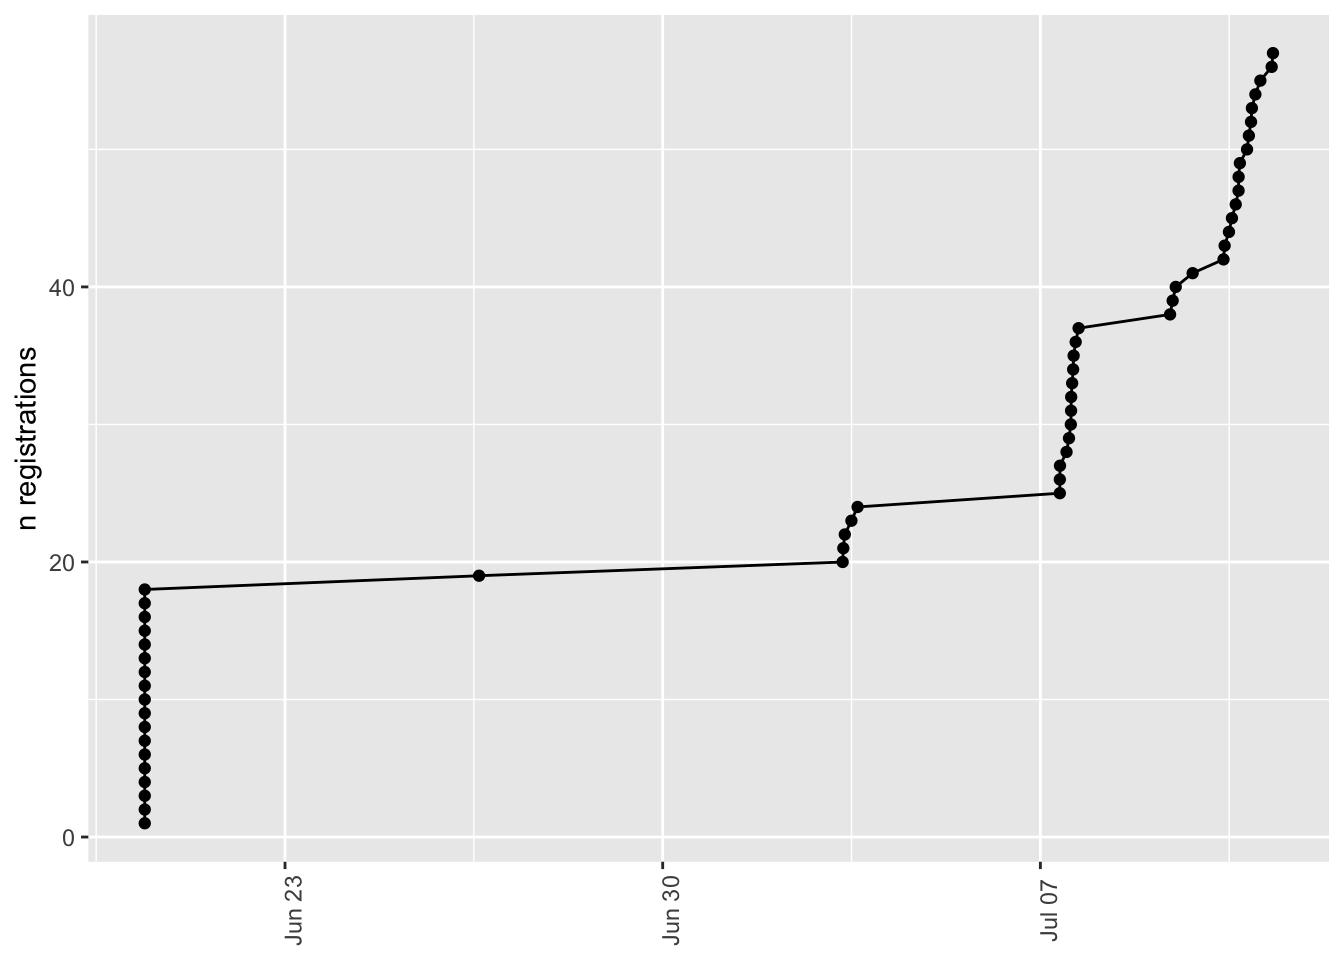
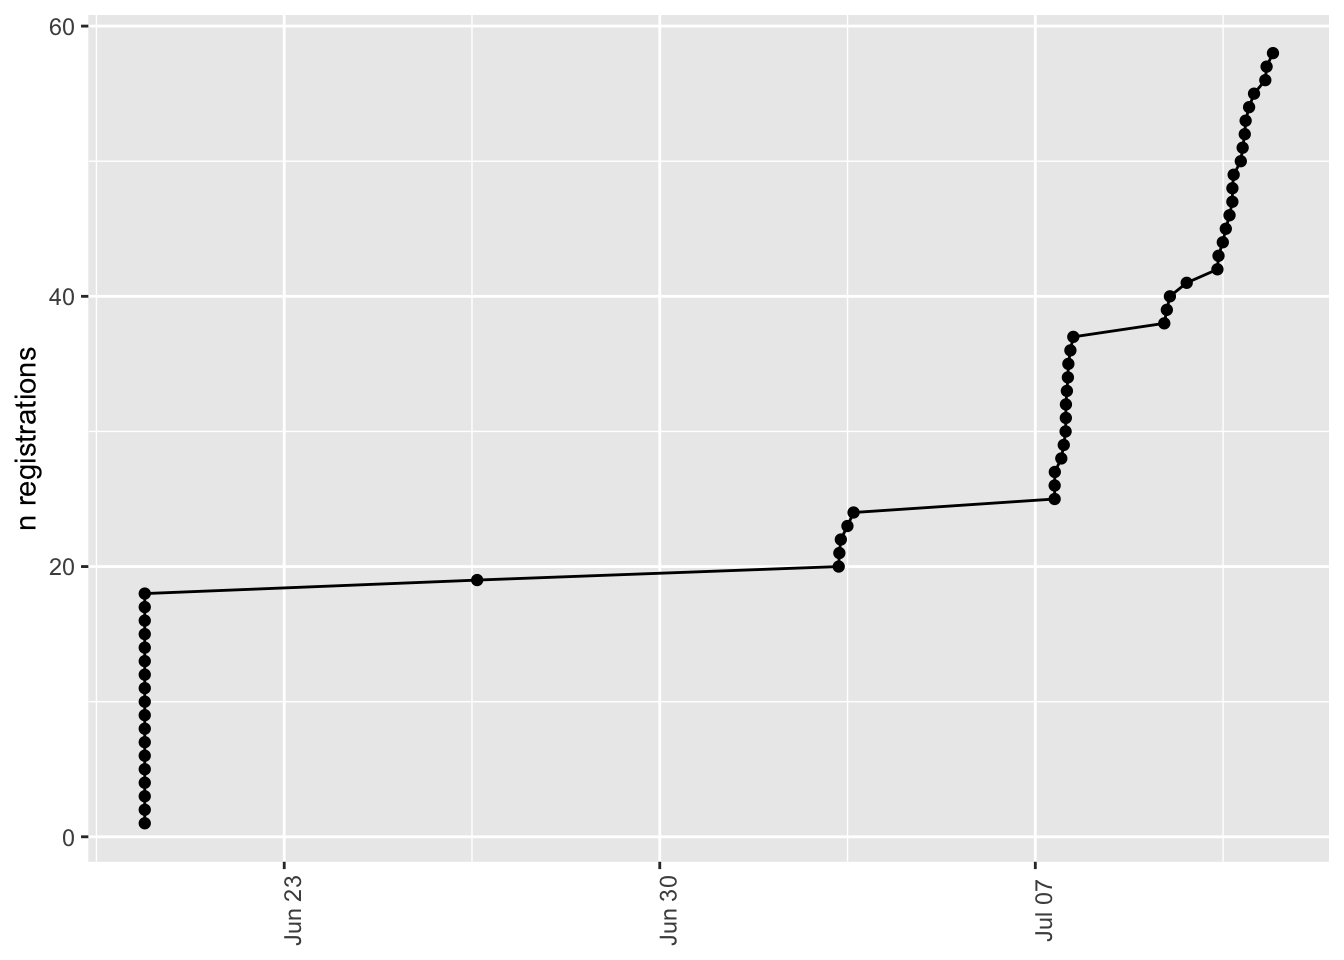
Update registration.qmd and rerender index.qmd to pick up new data; reformat date/time stamp in registration.qmd; add Allen Street Grill map to day-1.qmd.

diff --git a/docs/day-1.html b/docs/day-1.html
@@ -241,7 +241,7 @@ ul.task-list li input[type="checkbox"] {
     <div>
     <div class="quarto-title-meta-heading">Modified</div>
     <div class="quarto-title-meta-contents">
-      <p class="date-modified">July 9, 2025</p>
+      <p class="date-modified">July 11, 2025</p>
     </div>
   </div>
     
@@ -338,7 +338,7 @@ Location
 <td></td>
 </tr>
 <tr class="even">
-<td>Getting Credit for Sharing Your Data: Good Enough Data Management Practices (<a href="./directors.html#alaina-pearce">Pearce</a>)</td>
+<td>Getting credit for sharing your data: Good enough data management practices (<a href="./directors.html#alaina-pearce">Pearce</a>)</td>
 <td>Dewey Room</td>
 <td></td>
 </tr>
@@ -362,7 +362,7 @@ Location
 <tr class="odd">
 <td>Quarto (Part I): A tool for open scholarship (<a href="./directors.html#rick-gilmore">Gilmore</a>)</td>
 <td>W211A</td>
-<td><a href="https://penn-state-open-science.github.io/bootcamp-2025-quarto-I">slides</a></td>
+<td><a href="https://penn-state-open-science.github.io/bootcamp-2025-quarto-I">slides</a>, <a href="https://penn-state-open-science.github.io/bootcamp-2025-quarto-I-template">template repo</a></td>
 </tr>
 <tr class="even">
 <td>Questionable research practices (<a href="./program-committee.html#nicole-lazar">Lazar</a> &amp; <a href="./program-committee.html#jennifer-valcin">Valcin</a>)</td>

diff --git a/docs/registration.html b/docs/registration.html
@@ -530,7 +530,7 @@ Table&nbsp;9.1: A minimal data dictionary.
 <span id="cb7-5"><a href="#cb7-5" aria-hidden="true" tabindex="-1"></a>  dplyr<span class="sc">::</span><span class="fu">mutate</span>(<span class="at">keynotes =</span> stringr<span class="sc">::</span><span class="fu">str_detect</span>(<span class="at">string =</span> bootcamp_keynote, <span class="at">pattern =</span> <span class="st">"Keynote"</span>))</span></code><button title="Copy to Clipboard" class="code-copy-button"><i class="bi"></i></button></pre></div>
 </details>
 </div>
-<p>As of 2025-07-11 08:35:57.896865, we have <span class="math inline">\(n=\)</span> 57 registered attendees. That is 76 % of our target registration/attendance limit of <em>n</em>=75.</p>
+<p>As of 2025-07-11, we have <span class="math inline">\(n=\)</span> 58 registered attendees and presenters. That is 77.3 % of our target registration/attendance limit of <em>n</em>=75.</p>
 </section>
 <section id="time-series" class="level3 unnumbered">
 <h3 class="unnumbered anchored" data-anchor-id="time-series">Time series</h3>
@@ -607,13 +607,13 @@ n_fri
 <tbody>
 <tr>
 <td style="text-align:right;">
-45
+46
 </td>
 <td style="text-align:right;">
-50
+51
 </td>
 <td style="text-align:right;">
-42
+43
 </td>
 </tr>
 </tbody>

diff --git a/docs/day-2.html b/docs/day-2.html
@@ -242,7 +242,7 @@ ul.task-list li input[type="checkbox"] {
     <div>
     <div class="quarto-title-meta-heading">Modified</div>
     <div class="quarto-title-meta-contents">
-      <p class="date-modified">July 9, 2025</p>
+      <p class="date-modified">July 11, 2025</p>
     </div>
   </div>
     
@@ -385,6 +385,8 @@ Location
 <div class="callout-body-container callout-body">
 <p>The Lobby Bar<br>
 100 West College Avenue</p>
+<iframe src="https://www.google.com/maps/embed?pb=!1m18!1m12!1m3!1d3020.538779612024!2d-77.86313658434075!3d40.79415282215678!2m3!1f0!2f0!3f0!3m2!1i1024!2i768!4f13.1!3m3!1m2!1s0x89cea898cdfb8a73%3A0xe610deef9fe200b0!2sAllen%20Street%20Grill!5e0!3m2!1sen!2sus!4v1752245481214!5m2!1sen!2sus" width="600" height="450" style="border:0;" allowfullscreen="" loading="lazy" referrerpolicy="no-referrer-when-downgrade">
+</iframe>
 </div>
 </div>
 
